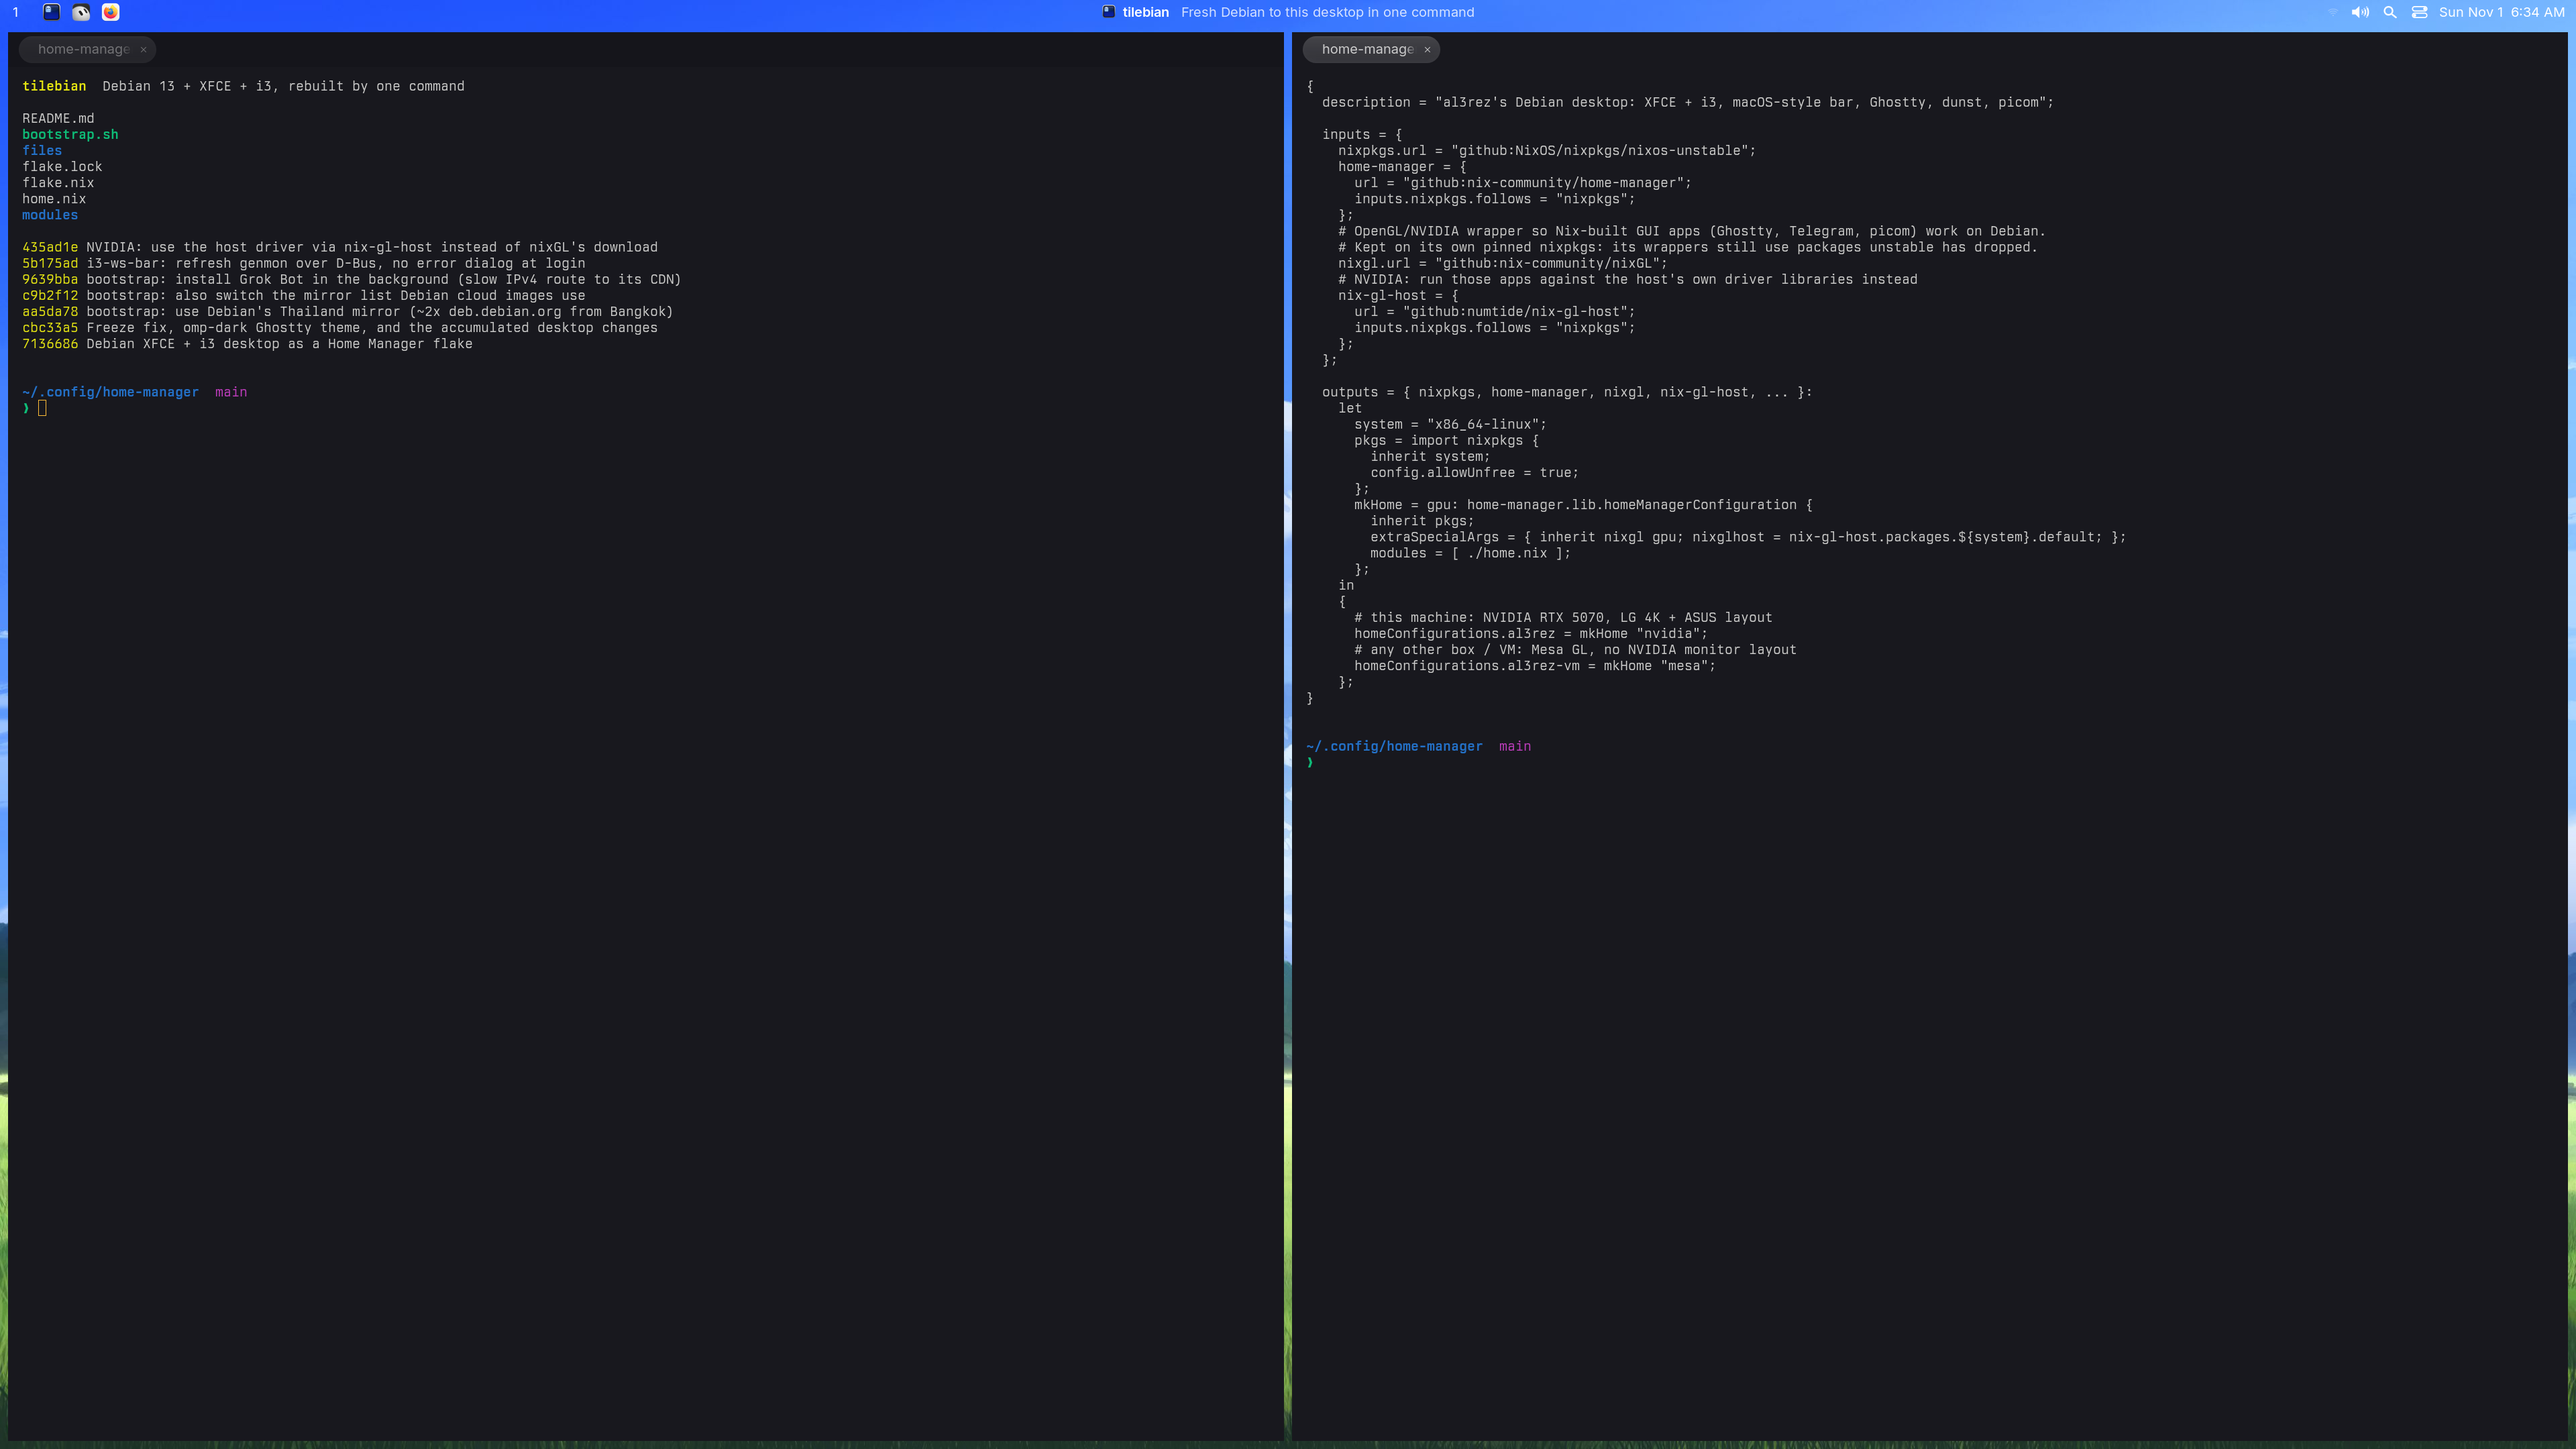
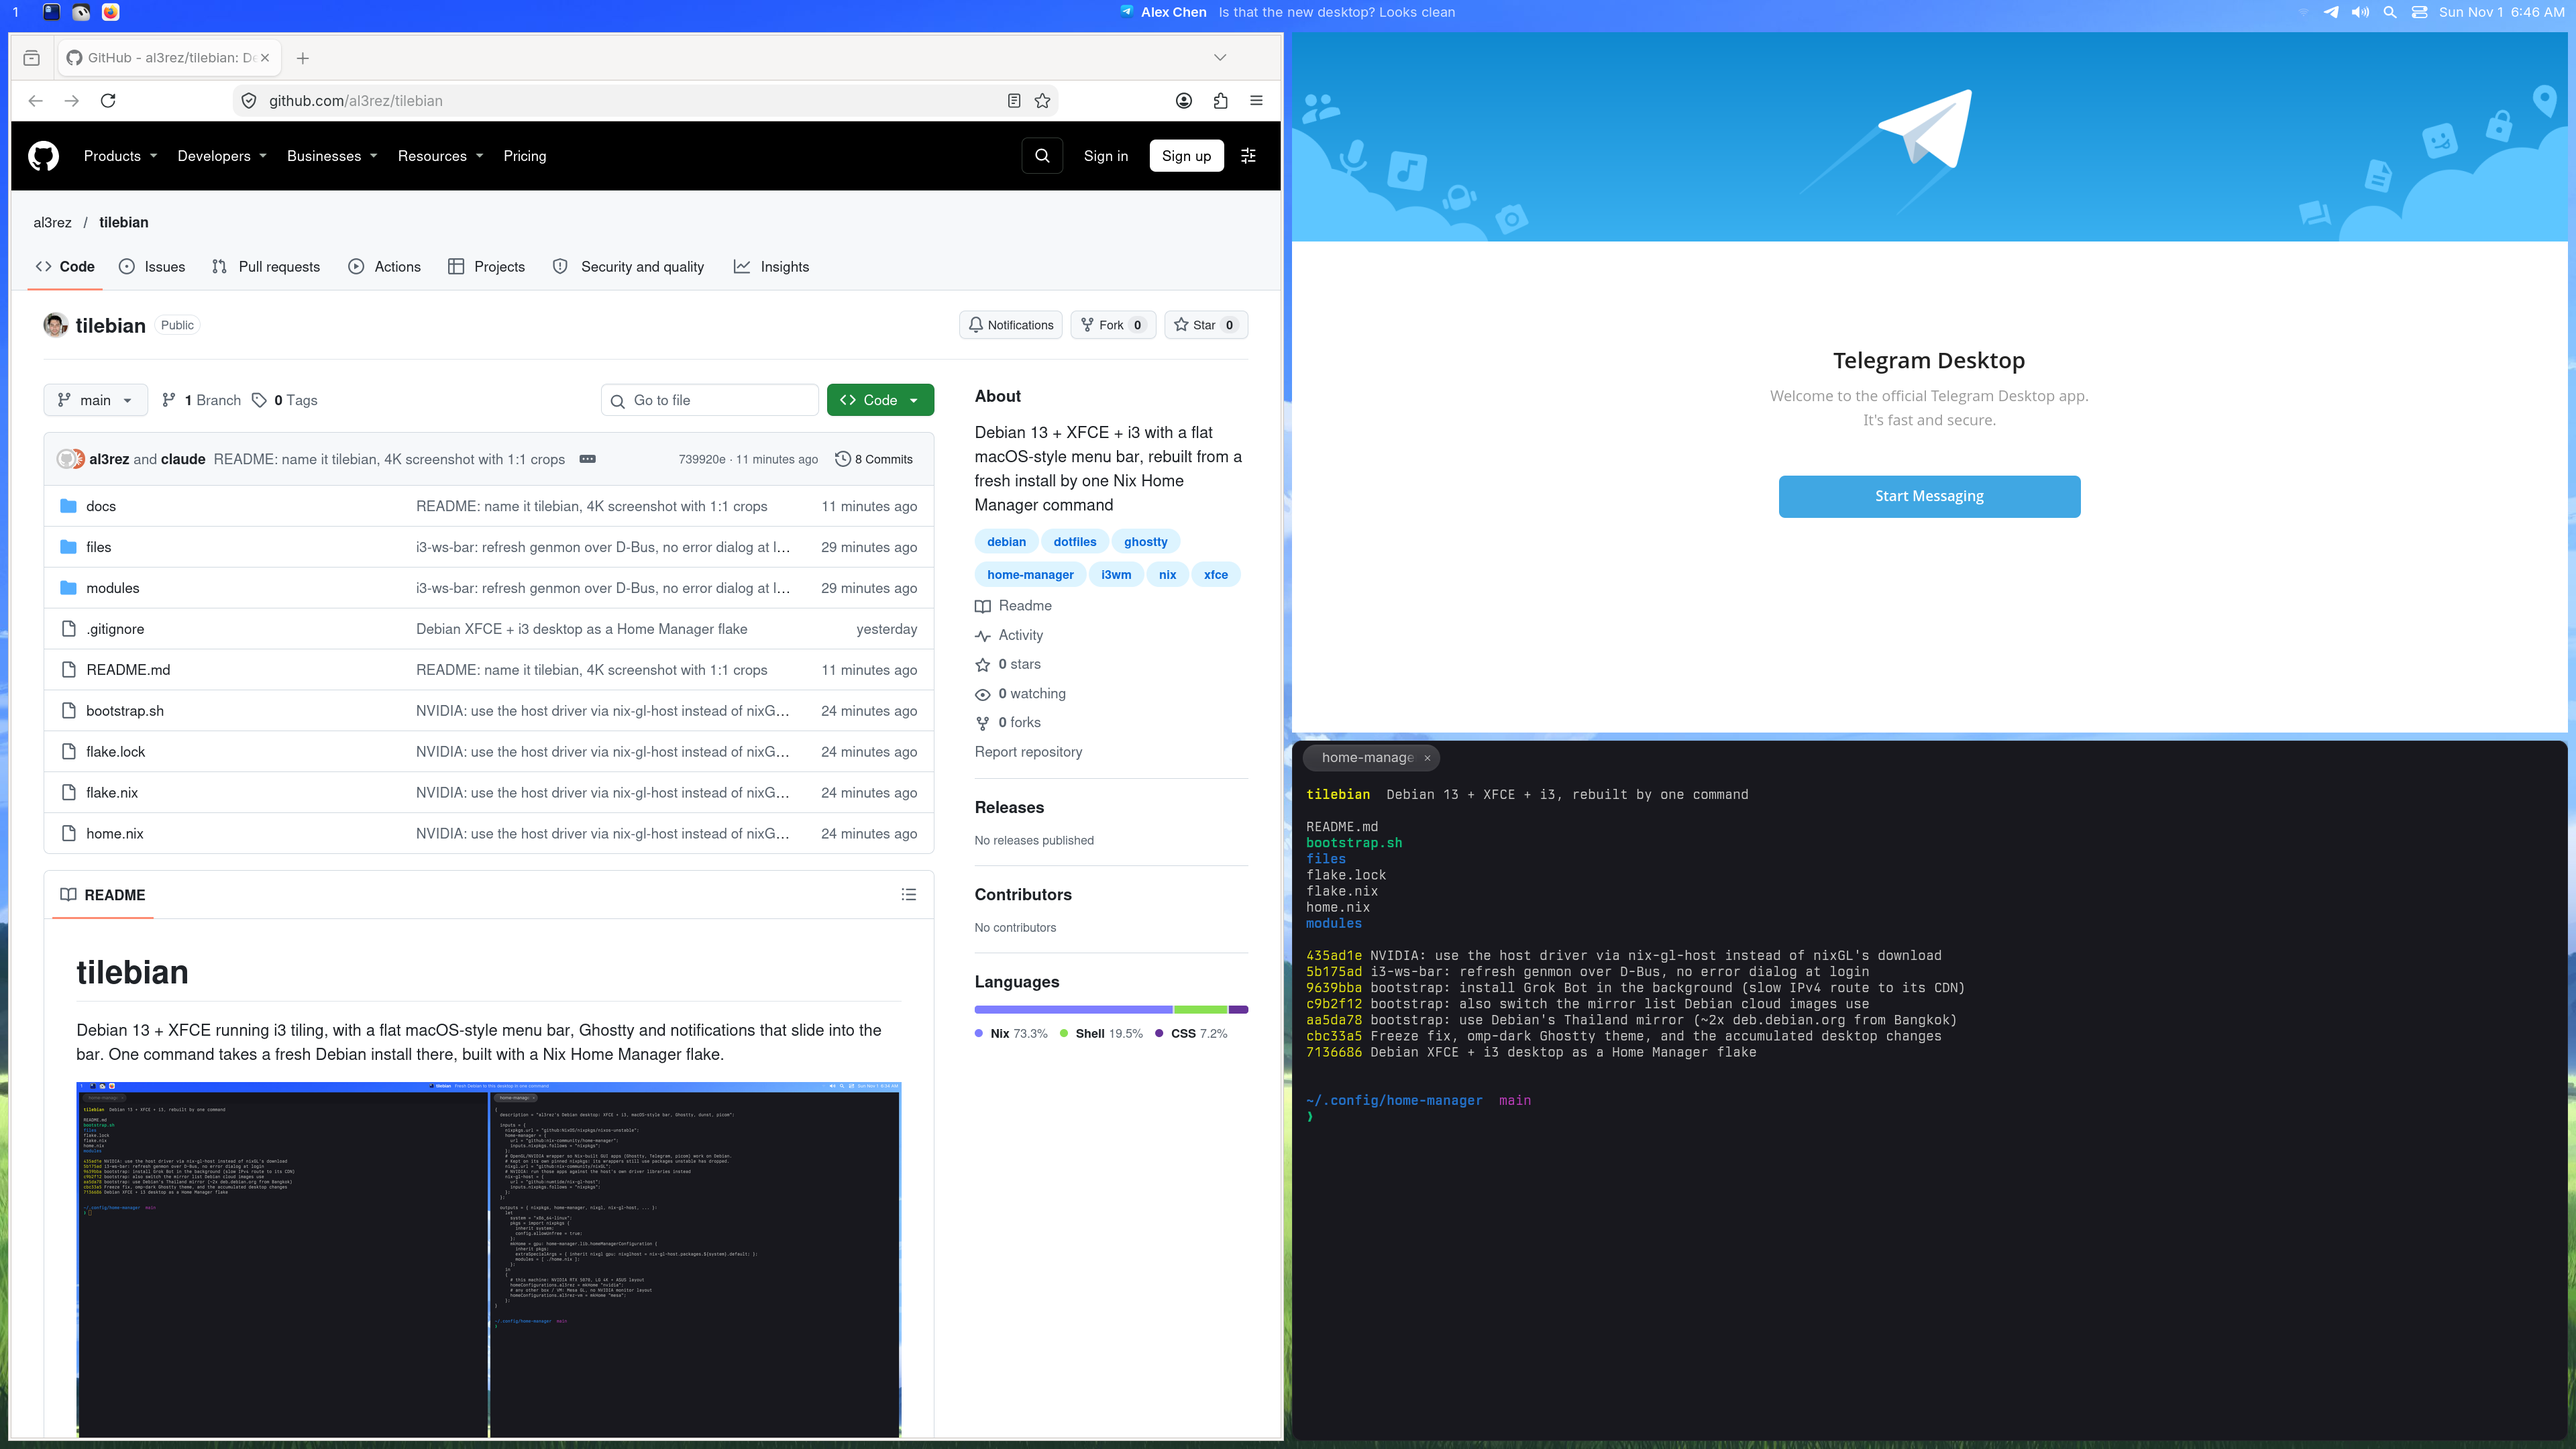
README: zoomed-out 4K screenshot with Firefox, Telegram and Ghostty open

diff --git a/README.md b/README.md
@@ -6,10 +6,10 @@ built with a Nix Home Manager flake.
 
 ![tilebian at 4K](docs/screenshot.png)
 
-<sub>Full 3840×2160 screenshot from a fresh Debian 13 VM right after `bootstrap.sh`. Below, the
-two top halves at 1:1 (no scaling).</sub>
+<sub>Full 3840×2160 screenshot from a fresh Debian 13 VM right after `bootstrap.sh`: Firefox, Telegram
+and Ghostty tiled by i3, a notification in the bar. Below, the two top halves at 1:1 (no scaling).</sub>
 
-| Left: workspace + pinned apps, Ghostty in Berkeley Mono | Right: notification in the bar, status icons, clock |
+| Left: workspace + pinned apps, Firefox | Right: notification in the bar, status icons, clock, Telegram |
 |---|---|
 | ![left half at 1:1](docs/zoom-left.png) | ![right half at 1:1](docs/zoom-right.png) |
 
